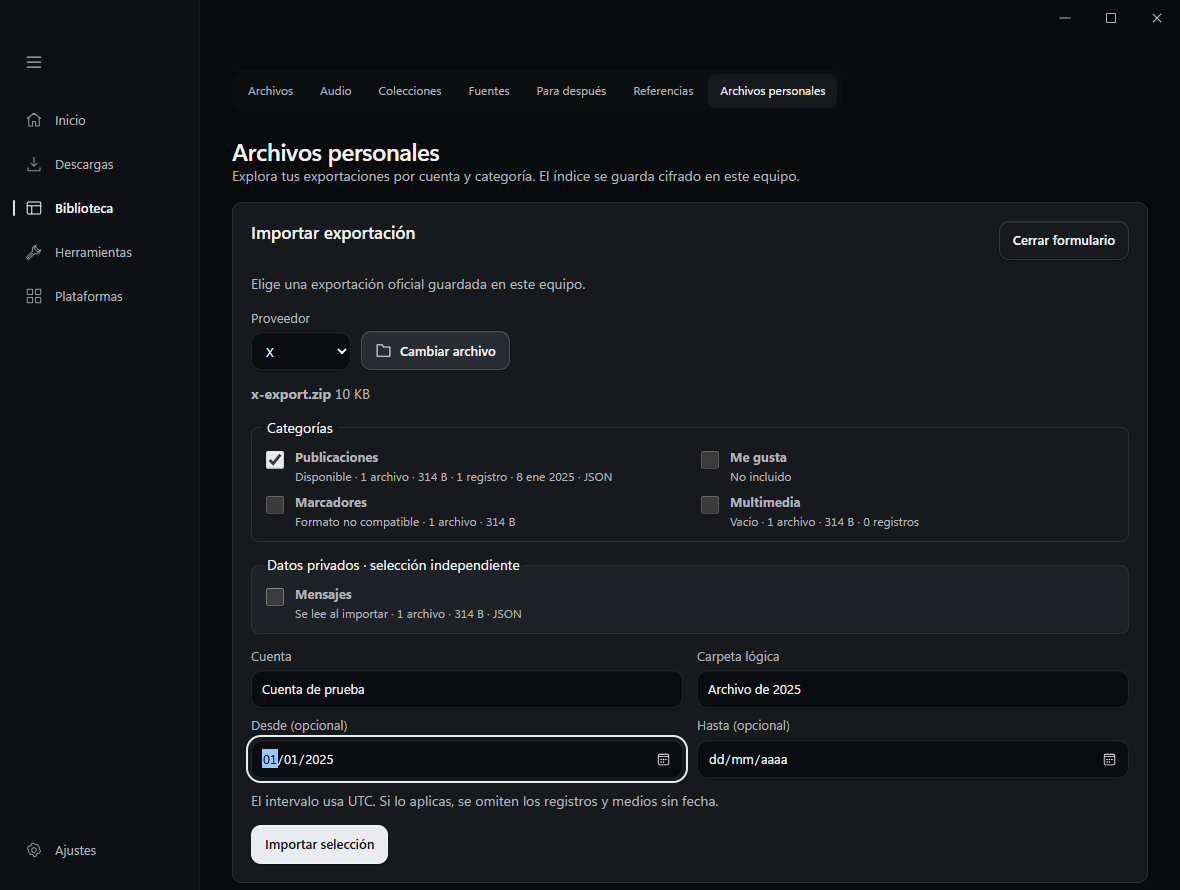
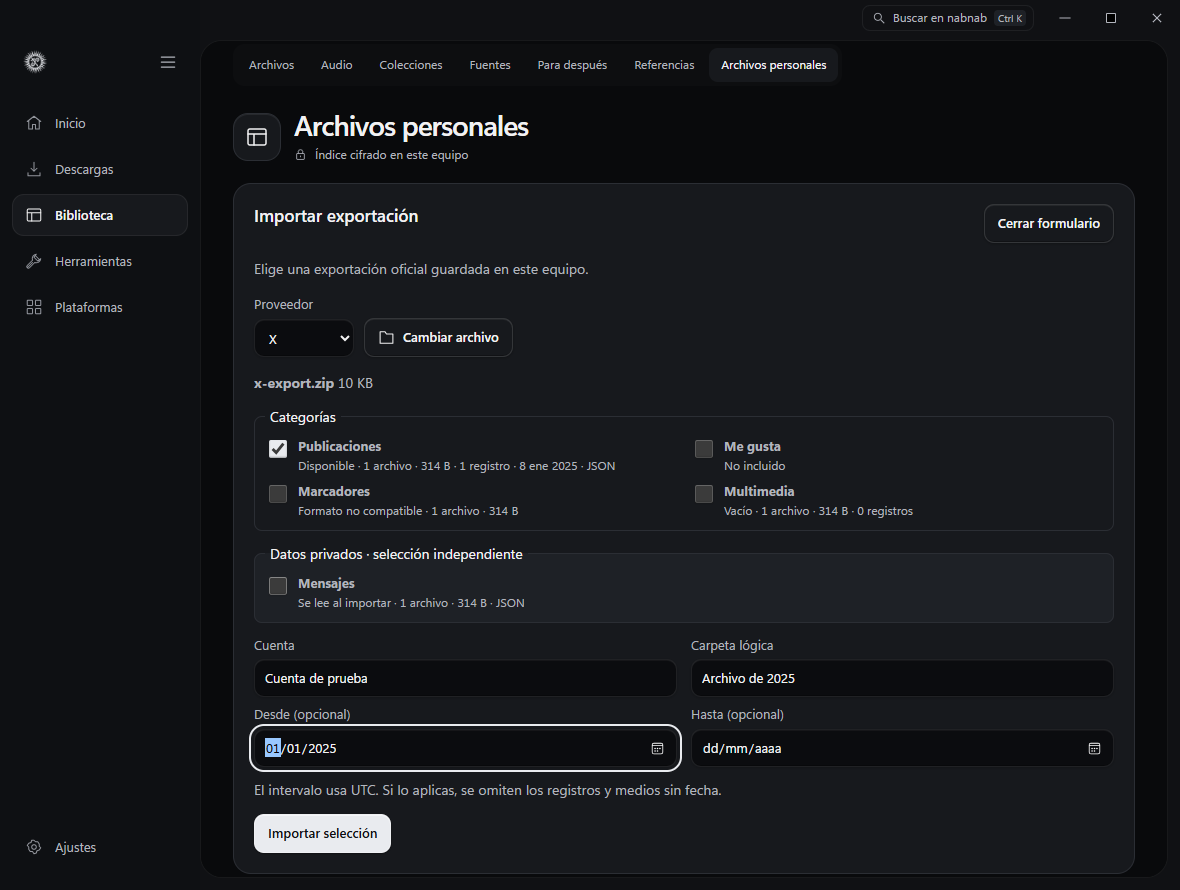
Refine personal archive browsing

diff --git a/src/personal-archives-ui.ts b/src/personal-archives-ui.ts
@@ -2,13 +2,18 @@ import "./personal-archives.css";
 import type { ImportPreview } from "./audio-library-ui";
 import { escapeHtml as h, type Copy } from "./contracts";
 import { bytesLabel, isCancelled } from "./presentation";
-import { action, option } from "./views-common";
+import { action, icon, option, type Icon } from "./views-common";
 
 const providers = {
   instagram: "Instagram", facebook: "Facebook", x: "X", spotify: "Spotify", linkedin: "LinkedIn",
 };
 type Provider = keyof typeof providers;
 type Category = "posts" | "saved" | "media" | "likes" | "bookmarks" | "listening" | "playlists" | "contacts" | "messages";
+const categoryIcons: Record<Category, Icon> = {
+  posts: "document", saved: "folder", media: "image", likes: "heart", bookmarks: "link",
+  listening: "wave", playlists: "list", contacts: "lock", messages: "lock",
+};
+const categoryKeys = Object.keys(categoryIcons) as Category[];
 type Availability = "absent" | "unsupported" | "empty" | "available" | "requiresSelection";
 type Format = "json" | "csv" | "html" | "media" | "xAssignment" | "unsupported";
 interface CategoryPreview {
@@ -236,8 +241,12 @@ export function createPersonalArchives(hooks: Hooks) {
 
   function recordList() {
     if (!category) return "";
-    if (privateCategory(category) && !privateOpen) return `<p>${t("Abre esta categoría para leer su contenido privado.", "Open this category to read its private records.")}</p>
-      ${action("archive-reveal", t("Mostrar categoría privada", "Show private category"), undefined, "secondary", disabled())}`;
+    if (privateCategory(category) && !privateOpen) return `<div class="archive-empty archive-locked">
+      <span class="archive-mark">${icon("lock")}</span>
+      <div><h3>${t("Categoría privada", "Private category")}</h3>
+        <p>${t("Los registros permanecen ocultos hasta que abras esta categoría.", "Records stay hidden until you open this category.")}</p></div>
+      ${action("archive-reveal", t("Mostrar categoría privada", "Show private category"), undefined, "secondary", disabled())}
+    </div>`;
     const page = result;
     const linkCount = [...selected.values()].filter(row => row.link).length;
     const range = page ? dates(page.start, page.end) : "";
@@ -245,7 +254,7 @@ export function createPersonalArchives(hooks: Hooks) {
       <label for="archive-query">${t("Buscar en esta categoría", "Search this category")}
         <input id="archive-query" name="query" type="search" maxlength="120" value="${h(query)}" ${disabled()}>
       </label>
-      <button type="submit" class="button secondary" ${disabled()}>${t("Buscar", "Search")}</button>
+      <button type="submit" class="button secondary" ${disabled()}>${icon("search")}${t("Buscar", "Search")}</button>
     </form>
     ${page ? `${range ? `<p class="muted">${h(range)} · UTC</p>` : ""}
       ${category === "listening" ? listening(page) : ""}
@@ -265,23 +274,48 @@ export function createPersonalArchives(hooks: Hooks) {
       </div>` : ""}` : ""}`;
   }
 
+  function accountIndex() {
+    const accounts = new Map<string, Archive[]>();
+    for (const archive of archives) {
+      const key = JSON.stringify([archive.provider, archive.account.toLowerCase()]);
+      const group = accounts.get(key);
+      if (group) group.push(archive);
+      else accounts.set(key, [archive]);
+    }
+    return `<nav class="archive-index" aria-labelledby="archive-index-title">
+      <h2 id="archive-index-title">${t("Cuentas", "Accounts")} <span>${number(accounts.size)}</span></h2>
+      ${[...accounts.values()].map((group, index) => {
+        const { account, provider } = group[0];
+        return `<section class="archive-account-group" aria-labelledby="archive-account-${index}-title">
+          <header><span class="archive-provider">${providers[provider]}</span><h3 id="archive-account-${index}-title">${h(account)}</h3></header>
+          <ul>${group.map(item => `<li><button type="button" class="archive-package" data-action="archive-open" data-id="${h(item.id)}"
+            aria-current="${item.id === archiveId ? "true" : "false"}" aria-disabled="${busy}">
+            ${icon("document")}<span><strong>${h(item.source)}</strong><small>${h(item.destination)}</small></span>
+          </button></li>`).join("")}</ul>
+        </section>`;
+      }).join("")}
+    </nav>`;
+  }
+
   function browse(archive: Archive) {
-    const categories = Object.entries(archive.categories).filter(([, count]) => count > 0) as [Category, number][];
-    return `<section class="archive-panel archive-browser" aria-labelledby="archive-current">
-      <div class="archive-heading"><div>
-        <p class="muted">${h(archive.destination)} · ${providers[archive.provider]}</p>
-        <h2 id="archive-current">${h(archive.account)}</h2>
-      </div>${action("archive-remove", archive.pendingRemoval ? t("Reintentar retirada", "Retry removal") : t("Retirar importación", "Remove import"), undefined, "secondary", disabled())}</div>
-      <details class="archive-details"><summary>${t("Procedencia", "Provenance")}</summary>
-        <p>${h(archive.source)} · ${bytesLabel(archive.mediaBytes)} ${t("en copias", "in copies")}</p>
-        <p>SHA-256 <code>${h(archive.fingerprint)}</code></p>
-        ${categories.map(([key]) => `<p>${name(key)} · ${h((archive.formats[key] ?? []).map(formatName).join(", "))}</p>`).join("")}
-      </details>
+    const categories = categoryKeys.filter(key => (archive.categories[key] ?? 0) > 0);
+    return `<section class="archive-browser" aria-labelledby="archive-current">
+      <header class="archive-heading archive-browser-heading">
+        <div><p class="archive-location">${icon("folder")}${h(archive.destination)}</p>
+          <h2 id="archive-current">${h(archive.account)}</h2></div>
+        <details class="archive-details archive-provenance" id="archive-source-${h(archive.id)}"><summary>${t("Procedencia", "Provenance")}</summary>
+          <p>${h(archive.source)} · ${bytesLabel(archive.mediaBytes)} ${t("en copias", "in copies")}</p>
+          <p>SHA-256 <code>${h(archive.fingerprint)}</code></p>
+          ${categories.map(key => `<p>${name(key)} · ${h((archive.formats[key] ?? []).map(formatName).join(", "))}</p>`).join("")}
+          ${action("archive-remove", archive.pendingRemoval ? t("Reintentar retirada", "Retry removal") : t("Retirar importación", "Remove import"), undefined, "secondary", disabled())}
+        </details>
+      </header>
       ${confirming ? `<div class="archive-confirm"><p>${t("Se borrarán el índice privado y las copias administradas de esta importación. Se conserva el archivo original.", "This removes the private index and managed copies for this import. The original export is preserved.")}</p>
         ${action("archive-remove-confirm", t("Retirar", "Remove"), undefined, "primary", disabled())}
         ${action("archive-cancel-confirm", t("Cancelar", "Cancel"), undefined, "secondary", disabled())}</div>` : ""}
-      ${archive.pendingRemoval ? "" : `<nav class="archive-tabs filter-tabs" aria-label="${t("Categorías del archivo", "Archive categories")}">
-        ${categories.map(([key, count]) => `<button type="button" data-action="archive-category" data-id="${key}" aria-pressed="${category === key}" ${disabled()}>${name(key)} · ${number(count)}</button>`).join("")}
+      ${archive.pendingRemoval ? "" : `<nav class="archive-tabs" aria-label="${t("Categorías del archivo", "Archive categories")}">
+        ${categories.map(key => `<button type="button" data-action="archive-category" data-id="${key}" aria-pressed="${category === key}" aria-disabled="${busy}">
+          ${icon(categoryIcons[key])}<span>${name(key)}</span><small>${number(archive.categories[key] ?? 0)}</small></button>`).join("")}
       </nav>${recordList()}`}
     </section>`;
   }
@@ -289,21 +323,29 @@ export function createPersonalArchives(hooks: Hooks) {
   function render() {
     const archive = current();
     return `<div class="personal-archives">
-      <header class="archive-heading"><div><h1 id="archive-title" tabindex="-1">${t("Archivos personales", "Personal archives")}</h1>
-        <p>${t("Explora tus exportaciones por cuenta y categoría. El índice se guarda cifrado en este equipo.", "Explore your exports by account and category. The index is encrypted on this device.")}</p></div>
-        ${!adding ? action("archive-new", t("Añadir exportación", "Add export"), undefined, "primary", disabled()) : ""}
+      <header class="archive-heading archive-page-heading">
+        <div class="archive-title-group"><span class="archive-mark">${icon("library")}</span><div>
+          <h1 id="archive-title" tabindex="-1">${t("Archivos personales", "Personal archives")}</h1>
+          <p>${icon("lock")}${t("Índice cifrado en este equipo", "Index encrypted on this device")}</p>
+        </div></div>
+        ${!adding ? action("archive-new", t("Añadir exportación", "Add export"), "add", "primary", disabled()) : ""}
       </header>
       ${busy ? `<div class="archive-actions"><span role="status">${t("Procesando archivo…", "Working on archive…")}</span>
         ${requestId ? action("archive-cancel", t("Cancelar", "Cancel")) : ""}</div>` : ""}
       ${error ? `<p class="archive-error" role="alert">${h(error)}</p>` : ""}
       ${!loaded && !busy && error ? action("archive-retry", t("Reintentar", "Retry")) : ""}
       ${adding ? importForm() : ""}
-      ${archives.length ? `<label class="archive-account" for="archive-active">${t("Importación", "Import")}
-        <select id="archive-active" ${disabled()}>
-          ${option("", t("Elegir una importación", "Choose an import"), archiveId)}
-          ${archives.map(item => option(item.id, `${item.destination} / ${item.account} · ${providers[item.provider]} · ${item.source}`, archiveId)).join("")}
-        </select></label>` : ""}
-      ${archive ? browse(archive) : loaded && !adding && !archives.length ? `<p class="archive-panel">${t("Aún no hay exportaciones importadas.", "No exports have been imported yet.")}</p>` : ""}
+      ${!adding && archives.length ? `<div class="archive-workspace">
+        ${accountIndex()}
+        ${archive ? browse(archive) : `<div class="archive-empty"><span class="archive-mark">${icon("document")}</span>
+          <h2>${t("Elige una exportación", "Choose an export")}</h2>
+          <p>${t("Abre un paquete del índice para explorar sus categorías.", "Open a package from the index to browse its categories.")}</p></div>`}
+      </div>` : ""}
+      ${loaded && !adding && !archives.length ? `<section class="archive-panel archive-empty">
+        <span class="archive-mark">${icon("folder")}</span>
+        <h2>${t("Aún no hay exportaciones importadas.", "No exports have been imported yet.")}</h2>
+        <p>${t("Añade un ZIP o un archivo de exportación que ya tengas en el equipo.", "Add a ZIP or an export file you already have on this device.")}</p>
+      </section>` : ""}
     </div>`;
   }
 
@@ -311,7 +353,7 @@ export function createPersonalArchives(hooks: Hooks) {
     archiveId = id;
     confirming = false;
     const archive = current();
-    const categories = Object.keys(archive?.categories ?? {}) as Category[];
+    const categories = categoryKeys.filter(key => (archive?.categories[key] ?? 0) > 0);
     resetRecords(archive?.pendingRemoval ? null : categories.find(item => !privateCategory(item)) ?? categories[0] ?? null);
     await read();
   }
@@ -333,13 +375,27 @@ export function createPersonalArchives(hooks: Hooks) {
       case "archive-new":
         adding = true; error = ""; hooks.render(); document.getElementById("archive-provider")?.focus(); break;
       case "archive-choose": await choose(); break;
-      case "archive-close-form": adding = false; preview = null; error = ""; hooks.render(); break;
+      case "archive-close-form":
+        adding = false; preview = null; error = ""; hooks.render();
+        document.querySelector<HTMLElement>('[data-action="archive-new"]')?.focus({ preventScroll: true }); break;
+      case "archive-open": {
+        const id = button.dataset.id;
+        if (id && id !== archiveId && archives.some(item => item.id === id)) await run(() => open(id));
+        break;
+      }
       case "archive-retry": await load(); break;
       case "archive-cancel":
         if (requestId) await hooks.command("cancel_file_source_inspection", { requestId });
         break;
-      case "archive-category": await run(async () => { resetRecords(button.dataset.id as Category); await read(); }); break;
-      case "archive-reveal": await run(async () => { privateOpen = true; await read(); }); break;
+      case "archive-category": {
+        const key = categoryKeys.find(item => item === button.dataset.id);
+        if (key && key !== category) await run(async () => { resetRecords(key); await read(); });
+        break;
+      }
+      case "archive-reveal":
+        await run(async () => { privateOpen = true; await read(); });
+        if (visible) document.getElementById("archive-query")?.focus({ preventScroll: true });
+        break;
       case "archive-previous": await run(async () => { offset = Math.max(0, offset - PAGE); await read(); }); break;
       case "archive-next": await run(async () => { offset += PAGE; await read(); }); break;
       case "archive-remove": confirming = true; hooks.render(); break;
@@ -387,9 +443,7 @@ export function createPersonalArchives(hooks: Hooks) {
   }
 
   async function change(target: HTMLElement) {
-    if (target instanceof HTMLSelectElement && target.id === "archive-active") {
-      await run(() => open(target.value));
-    } else if (target instanceof HTMLSelectElement && target.id === "archive-provider") {
+    if (target instanceof HTMLSelectElement && target.id === "archive-provider") {
       provider = target.value as Provider;
       preview = null;
       included.clear();

diff --git a/src/personal-archives.css b/src/personal-archives.css
@@ -1,21 +1,103 @@
-.personal-archives { display: grid; gap: 16px; min-width: 0; }
+.personal-archives { display: grid; gap: 20px; min-width: 0; }
 .archive-heading, .archive-actions, .archive-choose, .archive-search {
   display: flex; flex-wrap: wrap; align-items: end; gap: 10px;
 }
 .archive-heading { justify-content: space-between; align-items: start; }
 .archive-heading > div { min-width: 0; }
-.personal-archives h1, .personal-archives h2 { margin: 0; overflow-wrap: anywhere; }
+.personal-archives :is(h1, h2, h3) { margin: 0; overflow-wrap: anywhere; }
 .personal-archives p { margin: 0; overflow-wrap: anywhere; }
 .archive-heading p, .archive-panel > p { color: var(--muted); }
-.archive-panel {
-  display: grid; gap: 14px; min-width: 0; padding: 18px;
-  border: 1px solid var(--border); border-radius: 10px; background: var(--surface);
+.archive-page-heading { align-items: center; gap: 16px; }
+.archive-title-group, .archive-title-group p, .archive-location { display: flex; align-items: center; gap: 8px; }
+.archive-title-group { gap: 13px; }
+.archive-title-group > div { min-width: 0; }
+.personal-archives #archive-title { font-size: 28px; line-height: 1.1; letter-spacing: -.035em; }
+.archive-title-group p { margin-top: 5px; font-size: 12px; }
+.archive-title-group p svg, .archive-location svg { width: 13px; height: 13px; }
+.archive-mark {
+  display: grid; place-items: center; flex: none; width: 48px; height: 48px;
+  border: 1px solid var(--border); border-radius: 15px; background: var(--surface); color: var(--text);
+  box-shadow: inset 0 1px #ffffff12;
 }
-.archive-panel > button { justify-self: start; }
-.archive-panel label:not(.archive-option, .archive-record-name), .archive-account { display: grid; gap: 5px; min-width: 0; }
-.archive-account { width: min(100%, 38rem); }
-.archive-account select, .archive-fields input, .archive-search input { width: 100%; min-width: 0; }
+.archive-mark svg { width: 24px; height: 24px; }
+.archive-panel {
+  display: grid; gap: 16px; min-width: 0; padding: 20px;
+  border: 1px solid var(--border); border-radius: 18px; background: var(--surface);
+}
+.archive-workspace {
+  display: grid; grid-template-columns: clamp(160px, 18vw, 215px) minmax(0, 1fr);
+  min-width: 0; border: 1px solid var(--border); border-radius: 19px; background: var(--secondary);
+}
+.archive-index { min-width: 0; padding: 17px 10px; border-inline-end: 1px solid var(--border); }
+.archive-index > h2 {
+  display: flex; justify-content: space-between; align-items: center; gap: 8px;
+  margin: 0 6px 14px; color: var(--muted); font-size: 12px; font-weight: 650;
+}
+.archive-index > h2 span { font-variant-numeric: tabular-nums; }
+.archive-account-group + .archive-account-group { margin-top: 12px; padding-top: 12px; border-top: 1px solid var(--border); }
+.archive-account-group header { display: grid; gap: 2px; padding: 0 7px 6px; }
+.archive-provider { color: var(--muted); font-size: 11px; }
+.archive-account-group h3 { font-size: 14px; font-weight: 650; }
+.archive-account-group ul { display: grid; gap: 3px; margin: 0; padding: 0; list-style: none; }
+.archive-package {
+  display: grid; grid-template-columns: 16px minmax(0, 1fr); align-items: center; gap: 8px;
+  width: 100%; min-height: 42px; padding: 6px 8px; text-align: start;
+  border: 1px solid transparent; border-radius: 10px; background: transparent; color: var(--muted);
+}
+.archive-package svg { width: 16px; height: 16px; }
+.archive-package strong, .archive-package small { display: block; overflow-wrap: anywhere; }
+.archive-package strong { color: var(--text); font-size: 12px; font-weight: 550; }
+.archive-package small { font-size: 11px; }
+.archive-package:hover { background: var(--surface); }
+.archive-package[aria-current="true"] { border-color: var(--border); background: var(--hover); color: var(--text); }
+.archive-package[aria-current="true"] strong { font-weight: 700; }
+.archive-browser {
+  display: grid; align-content: start; gap: 16px; min-width: 0; padding: 20px;
+  border-radius: 0 18px 18px 0; background: var(--surface);
+}
+.archive-browser-heading { gap: 12px; align-items: center; }
+.archive-heading p.archive-location { margin-bottom: 3px; font-size: 12px; }
+#archive-current { font-size: 22px; line-height: 1.15; font-weight: 650; letter-spacing: -.02em; }
+.archive-provenance { font-size: 12px; }
+.archive-provenance[open] {
+  flex-basis: 100%; padding: 10px 12px; border: 1px solid var(--border); border-radius: 10px;
+  background: var(--secondary);
+}
+.archive-empty {
+  display: grid; align-content: center; justify-items: start; gap: 8px; min-height: 160px; min-width: 0;
+  padding: 22px;
+}
+.archive-empty h2 { font-size: 17px; }
+.archive-empty p { color: var(--muted); }
+.archive-locked {
+  min-height: 0; grid-template-columns: auto minmax(0, 1fr); gap: 10px 12px; align-items: center;
+  border: 1px solid var(--border); border-radius: 14px; background: var(--secondary);
+}
+.archive-locked .archive-mark { width: 40px; height: 40px; border-radius: 12px; }
+.archive-locked .archive-mark svg { width: 18px; height: 18px; }
+.archive-locked h3 { font-size: 15px; }
+.archive-locked button { grid-column: 2; }
+.archive-tabs {
+  display: flex; flex-wrap: wrap; gap: 4px; min-width: 0;
+  padding-bottom: 8px; border-bottom: 1px solid var(--border);
+}
+.archive-tabs button {
+  display: inline-flex; gap: 6px; align-items: center; min-height: 36px; padding: 5px 9px;
+  border: 1px solid transparent; border-radius: 9px; background: transparent; color: var(--muted);
+}
+.archive-tabs button:hover, .archive-tabs button[aria-pressed="true"] { background: var(--hover); color: var(--text); }
+.archive-tabs button[aria-pressed="true"] { border-color: var(--border); font-weight: 650; }
+.archive-tabs button svg { width: 15px; height: 15px; }
+.archive-tabs button small {
+  padding: 1px 5px; border-radius: 5px; background: var(--secondary); color: var(--muted);
+  font-size: 11px; font-variant-numeric: tabular-nums;
+}
+.archive-package[aria-disabled="true"], .archive-tabs button[aria-disabled="true"] { cursor: wait; }
+.archive-package:focus-visible, .archive-tabs button:focus-visible { outline-offset: 2px; }
+.archive-panel label:not(.archive-option, .archive-record-name), .archive-search label { display: grid; gap: 5px; min-width: 0; }
+.archive-fields input, .archive-search input { width: 100%; min-width: 0; }
 .archive-search > label { flex: 1 1 15rem; }
+.archive-search .button svg { width: 15px; height: 15px; }
 #archive-import-form { display: grid; gap: 13px; justify-items: start; }
 #archive-import-form > :is(fieldset, .archive-fields) { width: 100%; }
 .archive-categories, .archive-fields {
@@ -30,14 +112,15 @@
 .archive-option strong, .archive-option small, .archive-record-name strong, .archive-record-name small { display: block; overflow-wrap: anywhere; }
 .archive-option small, .archive-record-name small, .archive-file span { color: var(--muted); }
 .archive-option input, .archive-record-name input { min-height: auto; margin-top: 3px; }
-.archive-tabs { flex-wrap: wrap; min-width: 0; }
-.archive-tabs button[aria-pressed="true"] { background: var(--hover); color: var(--text); border-color: var(--border); }
 .archive-metrics {
-  display: grid; grid-template-columns: repeat(auto-fit, minmax(140px, 1fr)); gap: 12px;
-  margin: 0; padding: 10px 0; border-block: 1px solid var(--border);
+  display: grid; grid-template-columns: repeat(auto-fit, minmax(min(140px, 100%), 1fr)); gap: 12px 16px;
+  margin: 0; padding: 13px 15px; border: 1px solid var(--border); border-radius: 13px; background: var(--secondary);
 }
+.archive-metrics > div { display: flex; flex-direction: column; justify-content: space-between; }
 .archive-metrics dt { color: var(--muted); font-size: 12px; }
-.archive-metrics dd { margin: 2px 0 0; color: var(--text); font-size: 19px; font-variant-numeric: tabular-nums; }
+.archive-metrics dd { margin: 4px 0 0; color: var(--text); font-size: 20px; font-weight: 620; font-variant-numeric: tabular-nums; }
+.archive-browser .archive-actions { align-items: center; }
+.archive-browser .archive-actions > span { color: var(--muted); font-size: 12px; }
 .archive-records { list-style: none; margin: 0; padding: 0; }
 .archive-record { display: flex; align-items: start; flex-wrap: wrap; gap: 8px; padding: 10px 0; border-top: 1px solid var(--border); }
 .archive-record-name { flex: 1 1 16rem; }
@@ -49,6 +132,14 @@
 .archive-confirm { border-left: 2px solid var(--border); padding-left: 12px; }
 .archive-confirm p { margin-bottom: 8px; }
 .archive-error { color: var(--error); }
+@media (forced-colors: active) {
+  .archive-package[aria-current="true"], .archive-tabs button[aria-pressed="true"] { border-color: Highlight; }
+}
+@media (max-width: 780px) {
+  .archive-workspace { grid-template-columns: minmax(0, 1fr); }
+  .archive-index { border-inline-end: 0; border-bottom: 1px solid var(--border); }
+  .archive-browser { border-radius: 0 0 18px 18px; padding: 14px; }
+}
 @media (max-width: 720px) {
   .archive-panel { padding: 12px; }
   .archive-categories, .archive-fields { grid-template-columns: minmax(0, 1fr); }

diff --git a/src/views-common.ts b/src/views-common.ts
@@ -15,6 +15,7 @@ const paths = {
   add: '<path d="M12 4v16M4 12h16"/>',
   close: '<path d="m6 6 12 12M6 18 18 6"/>',
   folder: '<path d="M3 7V4h7l2 3h9v13H3V7Z"/>',
+  lock: '<rect x="5" y="10" width="14" height="11" rx="2"/><path d="M8 10V7a4 4 0 1 1 8 0v3m-4 4v3"/>',
   check: '<path d="m4 12 5 5L20 6"/>',
   error: '<circle cx="12" cy="12" r="9"/><path d="M12 7v6m0 4v.01"/>',
   search: '<circle cx="10" cy="10" r="6"/><path d="m15 15 6 6"/>',

diff --git a/docs/PERSONAL-ARCHIVES.md b/docs/PERSONAL-ARCHIVES.md
@@ -11,13 +11,13 @@ Open **Library → Personal archives → Add export**, choose the provider, and 
 | Spotify | Basic or extended listening history and exported playlists. Listening separates events, elapsed time, reported track endings, and plays with enough information to establish completion. **Match in Audio** opens the local playlist review. |
 | LinkedIn | Contacts, posts, and messages from recognized CSV and JSON layouts. Contacts and messages require separate selection. |
 
-Browse an import by account and category. Search applies to the open category. Use the row checkboxes to export a selection to CSV or open its public links in the batch preparer. Selecting **Prepare links** starts the usual metadata preparation. Downloading from that batch requires a separate action.
+The account index groups exports by provider and account and lists each package with its archive group. Open a package and select a category in the workspace. Search applies to that category. Use the row checkboxes to export a selection to CSV or open its public links in the batch preparer. Selecting **Prepare links** starts metadata preparation. Downloading from that batch requires a separate action.
 
 ![Spotify listening history with separate event and completion counts](personal-archive-listening.png)
 
 Contacts and messages require explicit selection at import and explicit reveal when browsing. Private CSV export asks for confirmation and writes readable text to the chosen destination. The archive index uses Windows DPAPI. Managed media resides in a user-restricted local directory and can be copied out with **Save copy**. Personal archives live outside the ordinary Library index used by global search, portable collections, CLI, and MCP.
 
-Reimporting the same SHA-256 package under the same provider and account adds missing records and categories. **Remove import** deletes the indexed records and managed media copies while preserving the source export.
+Reimporting the same SHA-256 package under the same provider and account adds missing records and categories. Open **Provenance → Remove import** to delete the indexed records and managed media copies while preserving the source export.
 
 ZIP processing uses the Windows ZIP reader and validates paths before extraction. The source limit is 1 GiB, with up to 10,000 entries, 24 path components, and 2 GiB of declared expanded data. A selection can extract up to 256 MiB, including up to 32 MiB of metadata. Media storage is limited to 2 GiB across imports. Archives with unknown filenames or schemas may have missing or unsupported categories. Exporting a narrower set of data can help with size limits.
 
@@ -28,4 +28,4 @@ Provider documentation on requesting an export
 - [Spotify data formats](https://support.spotify.com/article/understanding-your-data/)
 - [LinkedIn account data](https://www.linkedin.com/help/linkedin/answer/a1339364)
 
-Verification uses synthetic exports. The Windows test exercises selective ZIP extraction, repeat and partial imports, DPAPI storage, and removal. The Edge test uses fixture responses to exercise category selection, private reveal, CSV confirmation, and the handoff to Audio.
+Verification uses synthetic exports. The Windows test exercises selective ZIP extraction, repeat and partial imports, DPAPI storage, and removal. The Edge test uses fixture responses to exercise account grouping, keyboard navigation, private reveal, CSV confirmation, and the handoff to Audio.
